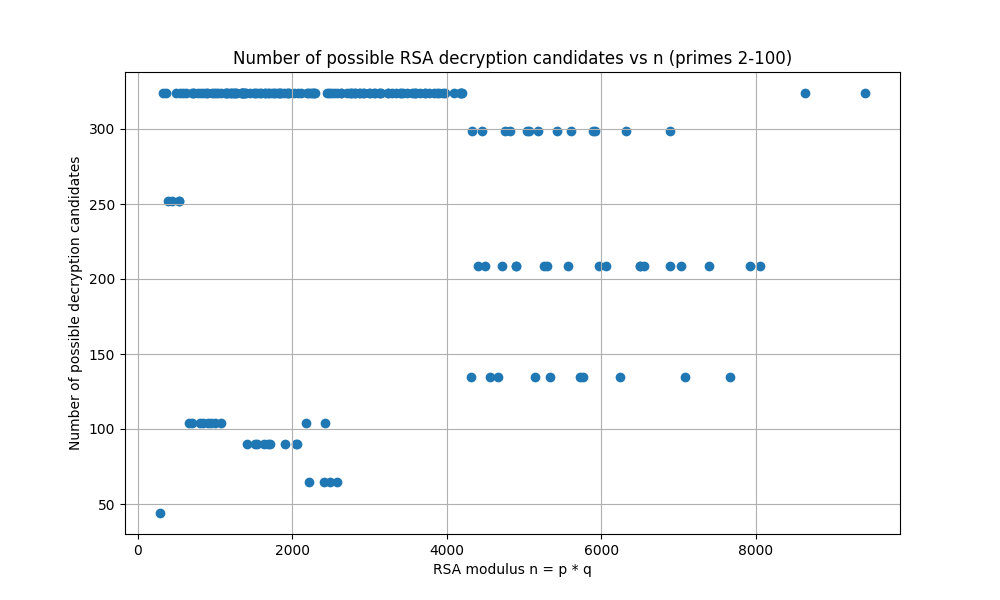
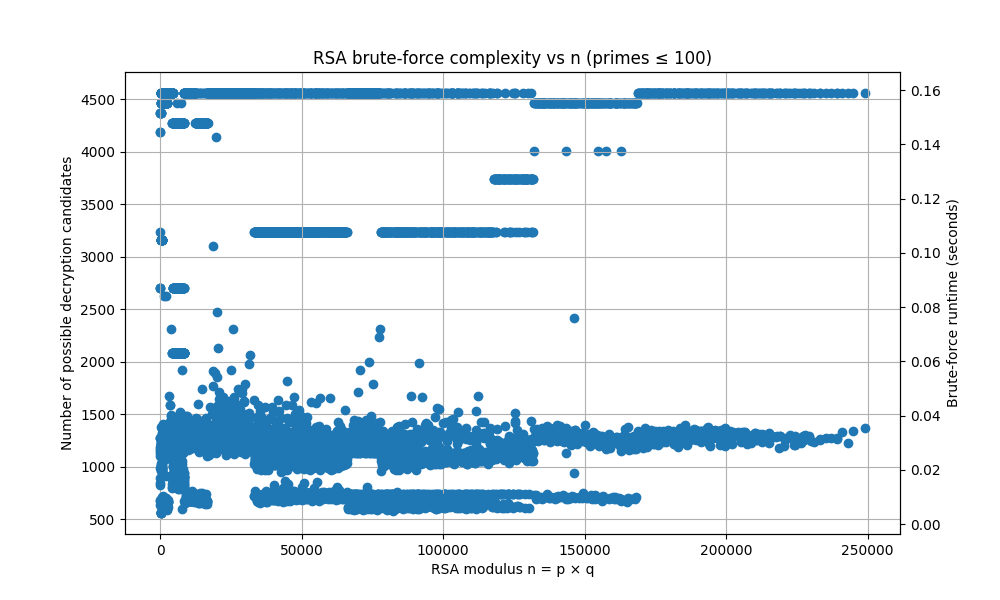
Add support for int input as message in rsa impl. Tidy up.

diff --git a/projects/cryptography/cryptography/asymmetric/rsa/rsa.py b/projects/cryptography/cryptography/asymmetric/rsa/rsa.py
@@ -1,6 +1,7 @@
 import math
 import random
-from typing import List, Tuple
+from typing import List, Tuple, Union
+from time import time
 
 from sympy import isprime, mod_inverse
 
@@ -10,7 +11,7 @@ from cryptography.utils import vectorise
 def iscoprime(a, b) -> bool:
     return math.gcd(a, b) == 1
 
-def encrypt(m: str, p: int, q: int) -> Tuple[List[int], int]:
+def encrypt(m: Union[str, int], p: int, q: int) -> Tuple[List[int], int]:
     random.seed(42)
     assert isprime(p) and isprime(q), "Error! Arguments p, and q must be prime numbers."
     
@@ -25,7 +26,14 @@ def encrypt(m: str, p: int, q: int) -> Tuple[List[int], int]:
             break
     e = pow(base=d, exp=-1, mod=phi)
     
-    c = [pow(m_int, e, n) for m_int in vectorise(m=m, n=n)]
+    if isinstance(m, str):
+        m = vectorise(m=m, n=n)
+    elif isinstance(m, int):
+        m = [m]
+    else:
+        raise TypeError("Error! Argument m must be of type 'str' or 'int'")
+        
+    c = [pow(m_int, e, n) for m_int in m]
     
     return c, d
     
@@ -41,7 +49,7 @@ def decrypt(c: List[int], p: int, q: int, d: int):
     
     return b.decode("utf-8")
 
-def bruteforce(c: List[int], d: int, max_prime: int=100):
+def bruteforce(c: List[int], d: int, max_prime: int=500):
     candidates = []
     num_candidates = 0
     primes = [p for p in range(2, max_prime) if isprime(p)]
@@ -52,11 +60,11 @@ def bruteforce(c: List[int], d: int, max_prime: int=100):
             # Check if d has an inverse mod phi(n) (i.e., is valid)
             if math.gcd(d, phi) != 1:
                 continue
+            num_candidates += 1
             try:
                 e = mod_inverse(d, phi)
             except ValueError:
                 continue
-            num_candidates += 1
             try:
                 plaintext = decrypt(c=c, p=p, q=q, d=d)
                 candidates.append(plaintext)
@@ -82,23 +90,30 @@ if __name__ == "__main__":
     import matplotlib.pyplot as plt
     from pathlib import Path
     from tqdm import tqdm
-    m = "Hi"
-    primes = [p for p in range(17, 100) if isprime(p)]
+    m = 4
+    primes = [p for p in range(5, 500) if isprime(p)]
     num_candidates = []
     ns = []
+    runtimes = []
     
     for i, p in tqdm(enumerate(primes), desc="Generating plot", total=len(primes)):
         for q in primes[i:]:
             n = p*q
             ns.append(n)
             c, d = encrypt(m=m, p=p, q=q)
+            runtimes.append
+            t0 = time()
             num_candidates.append(bruteforce(c=c, d=d)[1])
+            runtimes.append(time()-t0)
+            # print(n, num_candidates[-1])
     
-    # Plot
-    plt.figure(figsize=(10,6))
-    plt.scatter(ns, num_candidates)
-    plt.xlabel("RSA modulus n = p * q")
-    plt.ylabel("Number of possible decryption candidates")
-    plt.title("Number of possible RSA decryption candidates vs n (primes 2-100)")
-    plt.grid(True)
-    plt.savefig(Path(__file__).parent/"complexity.png")
+    fig, ax1 = plt.subplots(figsize=(10, 6))
+    ax1.scatter(ns, num_candidates)
+    ax1.set_xlabel("RSA modulus n = p × q")
+    ax1.set_ylabel("Number of possible decryption candidates")
+    ax1.grid(True)
+    ax2 = ax1.twinx()
+    ax2.scatter(ns, runtimes)
+    ax2.set_ylabel("Brute-force runtime (seconds)")
+    plt.title("RSA brute-force complexity vs n (primes ≤ 100)")
+    plt.savefig(Path(__file__).parent / "complexity.png")
